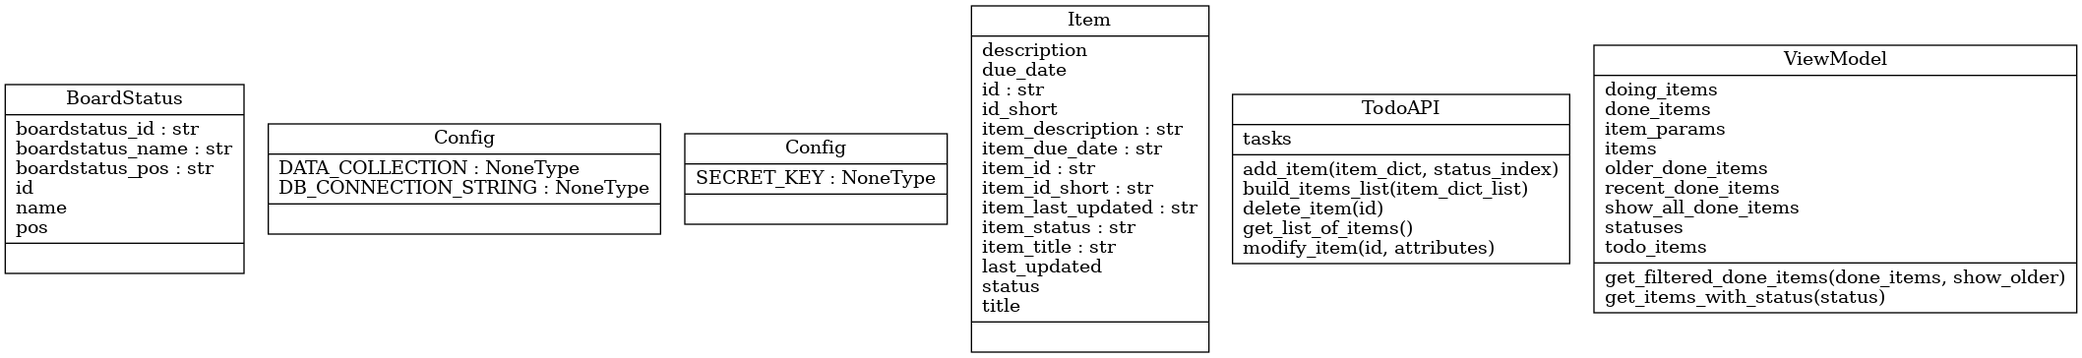
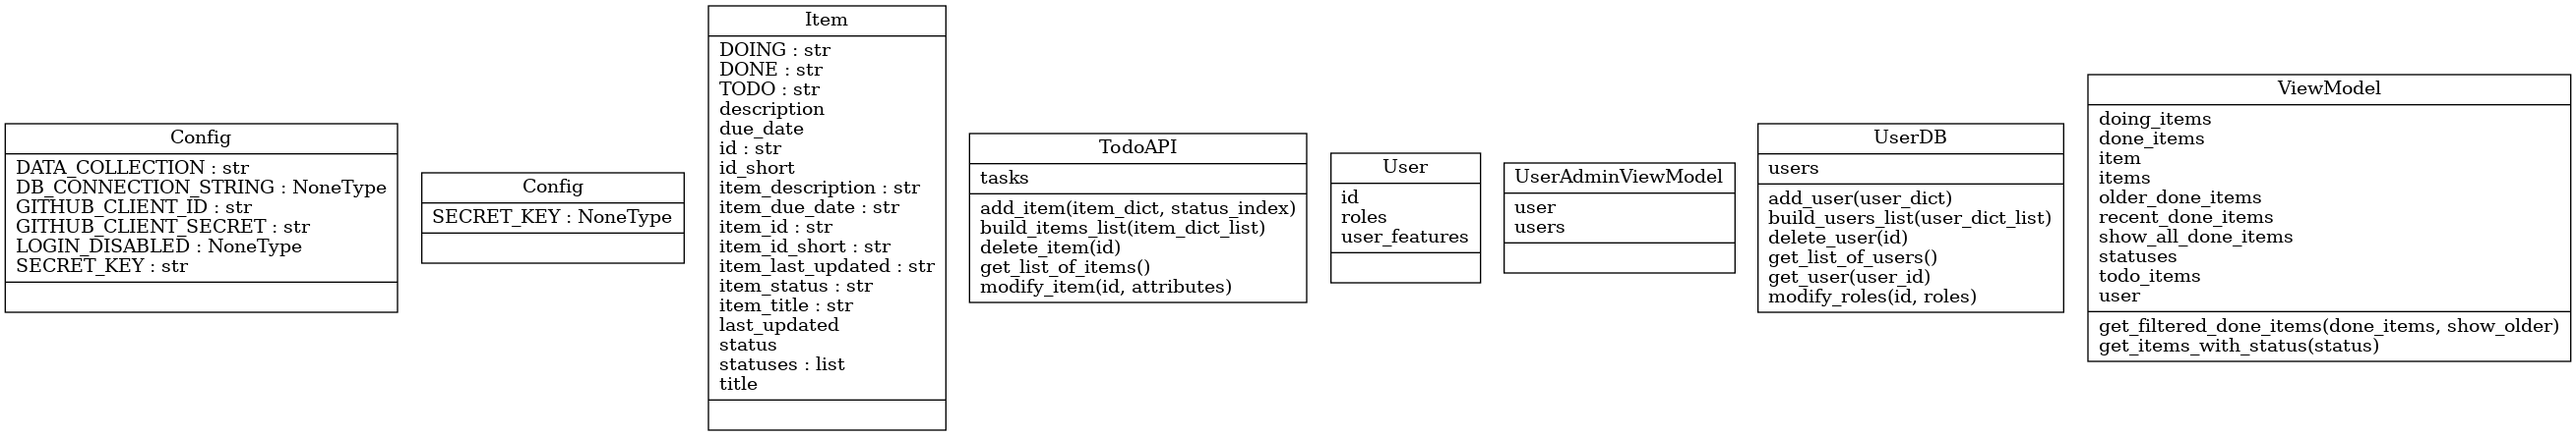
Updated README & architecture. Fixed an issue with useradmin

diff --git a/todo_app/templates/useradmin.html b/todo_app/templates/useradmin.html
@@ -38,14 +38,18 @@
                     <td><img src="{{user.user_features.avatar_url}}" style="height: 40px;"/></td>
                     <td>{{user.id}}</td>
                     <td>
-                        <label {% if 'reader' in view_model.user.roles %} style="font-weight: bold; color: green;" {% endif %}>Reader</label>
-                        <input type="checkbox" {% if 'reader' in view_model.user.roles %} checked {% endif %} onclick="toggle_role(this.checked,'{{user.id}}', 'reader' )">
+                        <label {% if 'reader' in user.roles %} style="font-weight: bold; color: green;" {% endif %}>Reader</label>
+                        <input type="checkbox" id="{{view_model.user.id}}_reader" {% if 'reader' in user.roles %} checked {% endif %} onclick="toggle_role(this.checked,'{{user.id}}', 'reader' )">
                         &nbsp;&nbsp;
-                        <label {% if 'writer' in view_model.user.roles %} style="font-weight: bold; color: green;" {% endif %}>Writer</label> 
-                        <input type="checkbox" {% if 'writer' in view_model.user.roles %} checked {% endif %} onclick="toggle_role(this.checked,'{{user.id}}', 'writer')">
+                        <label {% if 'writer' in user.roles %} style="font-weight: bold; color: green;" {% endif %}>Writer</label> 
+                        <input type="checkbox" id="{{view_model.user.id}}_writer" {% if 'writer' in user.roles %} checked {% endif %} onclick="toggle_role(this.checked,'{{user.id}}', 'writer')">
                         &nbsp;&nbsp;
-                        <label {% if 'admin' in view_model.user.roles %} style="font-weight: bold; color: green;" {% endif %}>Admin</label> 
-                        <input type="checkbox" {% if 'admin' in view_model.user.roles %} checked {% endif %} onclick="toggle_role(this.checked,'{{user.id}}', 'admin')">
+                        <label 
+                            {% if 'admin' in user.roles and view_model.users|length != 1 %} style="font-weight: bold; color: green;" 
+                            {% elif view_model.users|length == 1 %} style="font-weight: bold; color: gray;"
+                            {% endif %} 
+                            >Admin</label> 
+                        <input type="checkbox" id="{{view_model.user.id}}_admin" {% if 'admin' in user.roles %} checked {% endif %} onclick="toggle_role(this.checked,'{{user.id}}', 'admin')" {% if view_model.users|length == 1 %} disabled {% endif %} >
                         
                     </td>
                     
@@ -56,7 +60,13 @@
 
             </tbody>
             </table>
-        
+            <div>
+                <ul>
+                    <li><strong>Reader</strong>: Can only see tasks</li>
+                    <li><strong>Writer</strong>: Can see and add/delete/move tasks</li>
+                    <li><strong>Admin</strong>: Can only see tasks and also manage users</li>
+                </ul>
+            </div>
             {% else %}No users to dislay
         {% endif %}
       </div>

diff --git a/todo_app/app.py b/todo_app/app.py
@@ -96,13 +96,14 @@ def create_app():
         
         return render_usersadmin_response()
 
-    @app.route('/usersetrole/<id>/<role>/<add_remove>', methods=['POST'])
+    @app.route('/usersetrole/<user_id>/<role>/<add_remove>', methods=['POST'])
     @login_required
-    def _usersetrole(id,role,add_remove):
+    def _usersetrole(user_id,role,add_remove):
         if not is_permitted('admin'):
             return redirect('/', code=302)
         
-        roles = current_user.roles
+        user = users_db.get_user(user_id)
+        roles = user.roles
         if role in roles and add_remove == 'remove':
             roles.remove(role)
         elif role not in roles and add_remove == 'add':
@@ -110,7 +111,7 @@ def create_app():
         else:
             pass
 
-        users_db.modify_roles(id,roles)
+        users_db.modify_roles(user_id,roles)
         return render_usersadmin_response()
 
     @app.route('/', methods=['GET'])

diff --git a/README.md b/README.md
@@ -47,6 +47,16 @@ You can run a local mongoDB for dev purposes by running:
 ```docker-compose up -d todoapp-local-mongodb```
 It will spin a local mongoDB from a cloud image. You can connect at the default 27017 port. Any records added will persist in local volume created in ```./localmongodb``` so you can find them later even if you bring the container down
 
+## Integration with GitHub authentication using the OAuth flow
+- Register the app with Github
+* Follow the Github [documentation](https://docs.github.com/en/developers/apps/building-oauth-apps/creating-an-oauth-app) to create your oauth app.
+* For the homepage URL field enter the address for accessing the website locally.
+* For the callback add a particular path to this URL for example /login/
+callback.
+* You will need both a client-id and client-secret for your .env file. The client-secret once generated will only be shown once, so take a note of it to avoid needing to regenerate one later.
+* if using ```pip``` to manage dependencies, run ```pip install oauthlib flask-login```
+
+
 ## Running the App
 
 Once the all dependencies have been installed, start the Flask app in development mode within the poetry environment by running:
